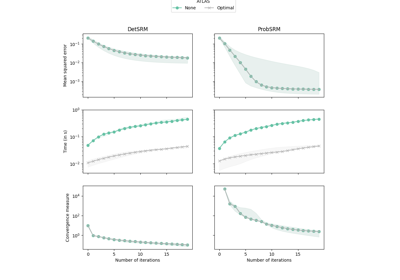
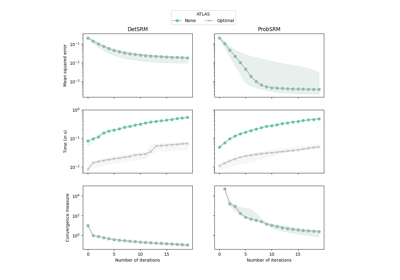
[skip ci] Updates

diff --git a/searchindex.js b/searchindex.js
@@ -1,1 +1,1 @@
-Search.setIndex({docnames:["auto_examples/index","auto_examples/plot_synthetic_toy","auto_examples/sg_execution_times","index"],envversion:{"sphinx.domains.c":2,"sphinx.domains.changeset":1,"sphinx.domains.citation":1,"sphinx.domains.cpp":4,"sphinx.domains.index":1,"sphinx.domains.javascript":2,"sphinx.domains.math":2,"sphinx.domains.python":3,"sphinx.domains.rst":2,"sphinx.domains.std":2,sphinx:56},filenames:["auto_examples/index.rst","auto_examples/plot_synthetic_toy.rst","auto_examples/sg_execution_times.rst","index.rst"],objects:{"fastsrm.fastsrm":{fastsrm:[3,0,1,""]},"fastsrm.identifiable_srm":{IdentifiableFastSRM:[3,1,1,""]},"fastsrm.identifiable_srm.IdentifiableFastSRM":{add_subjects:[3,2,1,""],clean:[3,2,1,""],fit:[3,2,1,""],fit_transform:[3,2,1,""],inverse_transform:[3,2,1,""],transform:[3,2,1,""]},"fastsrm.srm":{detsrm:[3,0,1,""],probsrm:[3,0,1,""]}},objnames:{"0":["py","function","Python function"],"1":["py","class","Python class"],"2":["py","method","Python method"]},objtypes:{"0":"py:function","1":"py:class","2":"py:method"},terms:{"0":[1,2,3],"00":2,"000013":1,"001":3,"05":3,"08":2,"1":[1,3],"10":[1,3],"100":3,"12":3,"12537":3,"129":1,"15":1,"1909":3,"1e":[1,3],"1e0":1,"2":[1,3],"20":[1,3],"2019":3,"25":1,"3":1,"30":1,"4":1,"4009":1,"424":[1,2],"456504":1,"5":1,"685497":1,"75":1,"767339":1,"790836":1,"8":1,"9":1,"case":3,"class":3,"default":3,"do":3,"float":[1,3],"function":3,"import":1,"int":3,"new":3,"return":[1,3],"true":[1,3],A:3,At:3,If:3,The:[0,3],To:3,access:3,accuraci:1,across:3,add:3,add_subject:3,aggreg:3,algo:1,algorithm:3,algos_det:1,algos_group:1,algos_prob:1,all:[0,3],alpha:1,also:3,among:3,amount:3,an:3,ani:[1,3],anymor:3,append:[1,3],appli:3,approx:3,ar:3,arang:1,arrai:[1,3],arxiv:3,assum:3,astyp:1,atla:[1,3],attribut:3,auto:3,auto_exampl:2,auto_examples_jupyt:[0,3],auto_examples_python:[0,3],ax:1,axi:1,b:[1,3],base:1,basi:3,basis_list:3,bbox_to_anchor:1,below:3,bool:3,c:1,call:3,callback:[1,3],can:[0,3],center:1,circleci:1,clean:3,click:1,cm:1,code:[0,1,3],col:1,collect:3,color:1,compon:1,comput:[1,3],contain:3,control:3,converg:[0,2,3],coordin:3,copi:1,corrective_factor:3,covari:3,cpu:3,current:[1,3],current_it:1,current_tim:1,data:3,dataset:1,decomposit:3,def:1,delai:1,demonstr:[0,1,3],describ:3,det:[1,3],determinist:3,detsrm:1,diagon:3,did:1,diff:1,diff_b_a:1,dim:1,dir:3,dirichlet:1,disabl:3,do_exp:1,done:[0,1,3],dot:[1,3],download:[0,1,3],dure:3,each:3,element:3,els:1,enabl:3,encount:1,end:3,enumer:1,env:1,eras:3,error:[1,3],estim:3,exampl:1,execut:2,exist_ok:1,expect:3,f:1,factor:3,fall:3,fals:3,fast:[1,3],fastdet:1,fastprob:1,fastsrm:[0,2],featur:3,figsiz:1,file:[2,3],fill_between:1,fit:3,fit_transform:3,flatten:1,fmri:3,foral:3,free:3,from:[1,3],full:1,function_bas:1,galleri:1,gener:[0,1,3],get_cmap:1,given:3,gnorm:[1,3],gradient:3,h:3,ha:3,have:3,here:1,hold:3,home:1,http:3,i:[1,3],identifiable_srm:3,img:3,implicitli:3,index:1,inform:3,initi:3,input:3,instanc:3,invalid:1,inverse_transform:3,ipynb:1,iter:[1,3],itself:3,j:[1,3],joblib:1,jupyt:[0,1,3],k:1,l:3,label:1,larg:3,larger:3,legend:1,len:1,level:3,lib:1,librari:[0,3],linestyl:1,list:3,load:3,loc:1,log:[1,3],logloc:1,loss:1,low:3,m:1,makedir:1,marker:1,markeveri:1,martin:3,matplotlib:1,mb:2,mean:[1,3],measur:1,median:1,memori:3,method:[1,3],miniconda3:1,minor:1,minut:1,model:3,much:3,multi:3,multipleloc:1,n:[1,3],n_compon:3,n_featur:3,n_iter:[1,3],n_job:3,n_sampl:3,n_session:3,n_subject:3,n_timefram:3,n_view:3,n_voxel:3,name:1,ncol:1,need:3,nois:3,noise_vari:3,none:[1,3],norm:3,note:3,notebook:[0,1,3],noth:3,np:[1,3],number:[1,3],numpi:[1,3],numtick:1,o:1,object:3,one:3,ones:1,onli:3,optim:1,option:3,org:3,orthogon:3,os:1,otherwis:3,out:1,packag:1,parallel:1,paramet:3,path:3,pca:3,pdf:3,per:3,perform:3,pillow:3,pinho:3,plot:1,plot_synthetic_toi:[1,2],plt:1,plticker:1,power:3,prefer:3,preprocess:3,print:[1,3],prob:[1,3],probabilist:3,probsrm:1,prod:1,project:[1,3],provid:[0,3],py:[1,2],pyplot:1,python3:1,python:[0,1,3],quantil:1,rand:1,randn:1,random:[1,3],random_st:[1,3],randomst:[1,3],rang:1,re:1,reconstruct:3,reconstructed_data:3,record:3,reduc:3,refer:3,reg_error:1,respons:3,ress:1,result:[1,3],richard2019:3,richard:3,rng:1,row:1,run:[0,2,3],runtimewarn:1,s:[1,3],s_true:1,same:3,sampl:[0,3],save:3,script:1,second:1,seed:1,self:3,session:3,sessions_index:3,set2:1,set:3,set_minor_loc:1,set_titl:1,set_xlabel:1,set_ylabel:1,set_yscal:1,set_ytick:1,shape:3,share:[1,3],shared_respons:3,sharei:1,sharex:1,should:3,show:1,sigma:[1,3],site:1,small:1,so:3,sourc:[0,1,3],source_covari:3,space:3,specif:3,specifi:3,speed:1,sphinx:[0,1,3],sqrt:1,squar:1,srm:[1,3],start:1,step:3,stop:3,store:3,str:3,sub:1,subject:3,subject_index:3,subjects_index:3,subplot:1,subtract:1,t0:3,t_init:1,temp_dir:3,temporari:3,testenv:1,than:3,thank:3,thi:[1,3],thirion:3,tick_param:1,ticker:1,time:[0,3],timecours:3,titl:1,tol:[1,3],toler:3,total:[1,2],train:3,transform:3,type:3,up:1,upper:1,us:[1,3],use_pca:3,util:1,v:1,valu:[1,3],vari:3,varianc:3,verbos:3,veri:[1,3],vir:1,voxel:3,w:[1,3],w_i:3,warn:3,what:[0,3],when:3,where:3,which:[1,3],without:1,work:[0,3],x:[1,3],x_i:3,y:1,y_minor:1,yaxi:1,yield:3,zip:[0,3]},titles:["Examples Gallery","FastSRM : running time and convergence","Computation times","Examples Gallery"],titleterms:{comput:2,converg:1,detsrm:3,exampl:[0,3],fastsrm:[1,3],galleri:[0,3],identifiablefastsrm:3,probsrm:3,run:1,time:[1,2]}})
+Search.setIndex({docnames:["auto_examples/index","auto_examples/plot_synthetic_toy","auto_examples/sg_execution_times","index"],envversion:{"sphinx.domains.c":2,"sphinx.domains.changeset":1,"sphinx.domains.citation":1,"sphinx.domains.cpp":4,"sphinx.domains.index":1,"sphinx.domains.javascript":2,"sphinx.domains.math":2,"sphinx.domains.python":3,"sphinx.domains.rst":2,"sphinx.domains.std":2,sphinx:56},filenames:["auto_examples/index.rst","auto_examples/plot_synthetic_toy.rst","auto_examples/sg_execution_times.rst","index.rst"],objects:{"fastsrm.fastsrm":{fastsrm:[3,0,1,""]},"fastsrm.identifiable_srm":{IdentifiableFastSRM:[3,1,1,""]},"fastsrm.identifiable_srm.IdentifiableFastSRM":{add_subjects:[3,2,1,""],clean:[3,2,1,""],fit:[3,2,1,""],fit_transform:[3,2,1,""],inverse_transform:[3,2,1,""],transform:[3,2,1,""]},"fastsrm.srm":{detsrm:[3,0,1,""],probsrm:[3,0,1,""]}},objnames:{"0":["py","function","Python function"],"1":["py","class","Python class"],"2":["py","method","Python method"]},objtypes:{"0":"py:function","1":"py:class","2":"py:method"},terms:{"0":[1,2,3],"00":2,"000013":1,"001":3,"05":3,"09":2,"1":[1,3],"10":[1,3],"100":3,"12":3,"12537":3,"129":1,"15":1,"1909":3,"1e":[1,3],"1e0":1,"2":[1,3],"20":[1,3],"2019":3,"25":1,"3":1,"30":1,"325":[1,2],"4009":1,"456504":1,"5":1,"685497":1,"75":1,"767339":1,"790836":1,"8":1,"9":1,"case":3,"class":3,"default":3,"do":3,"float":[1,3],"function":3,"import":1,"int":3,"new":3,"return":[1,3],"true":[1,3],A:3,At:3,If:3,The:[0,3],To:3,access:3,accuraci:1,across:3,add:3,add_subject:3,aggreg:3,algo:1,algorithm:3,algos_det:1,algos_group:1,algos_prob:1,all:[0,3],alpha:1,also:3,among:3,amount:3,an:3,ani:[1,3],anymor:3,append:[1,3],appli:3,approx:3,ar:3,arang:1,arrai:[1,3],arxiv:3,assum:3,astyp:1,atla:[1,3],attribut:3,auto:3,auto_exampl:2,auto_examples_jupyt:[0,3],auto_examples_python:[0,3],ax:1,axi:1,b:[1,3],base:1,basi:3,basis_list:3,bbox_to_anchor:1,below:3,bool:3,c:1,call:3,callback:[1,3],can:[0,3],center:1,circleci:1,clean:3,click:1,cm:1,code:[0,1,3],col:1,collect:3,color:1,compon:1,comput:[1,3],contain:3,control:3,converg:[0,2,3],coordin:3,copi:1,corrective_factor:3,covari:3,cpu:3,current:[1,3],current_it:1,current_tim:1,data:3,dataset:1,decomposit:3,def:1,delai:1,demonstr:[0,1,3],describ:3,det:[1,3],determinist:3,detsrm:1,diagon:3,did:1,diff:1,diff_b_a:1,dim:1,dir:3,dirichlet:1,disabl:3,do_exp:1,done:[0,1,3],dot:[1,3],download:[0,1,3],dure:3,each:3,element:3,els:1,enabl:3,encount:1,end:3,enumer:1,env:1,eras:3,error:[1,3],estim:3,exampl:1,execut:2,exist_ok:1,expect:3,f:1,factor:3,fall:3,fals:3,fast:[1,3],fastdet:1,fastprob:1,fastsrm:[0,2],featur:3,figsiz:1,file:[2,3],fill_between:1,fit:3,fit_transform:3,flatten:1,fmri:3,foral:3,free:3,from:[1,3],full:1,function_bas:1,galleri:1,gener:[0,1,3],get_cmap:1,given:3,gnorm:[1,3],gradient:3,h:3,ha:3,have:3,here:1,hold:3,home:1,http:3,i:[1,3],identifiable_srm:3,img:3,implicitli:3,index:1,inform:3,initi:3,input:3,instanc:3,invalid:1,inverse_transform:3,ipynb:1,iter:[1,3],itself:3,j:[1,3],joblib:1,jupyt:[0,1,3],k:1,l:3,label:1,larg:3,larger:3,legend:1,len:1,level:3,lib:1,librari:[0,3],linestyl:1,list:3,load:3,loc:1,log:[1,3],logloc:1,loss:1,low:3,m:1,makedir:1,marker:1,markeveri:1,martin:3,matplotlib:1,mb:2,mean:[1,3],measur:1,median:1,memori:3,method:[1,3],miniconda3:1,minor:1,minut:1,model:3,much:3,multi:3,multipleloc:1,n:[1,3],n_compon:3,n_featur:3,n_iter:[1,3],n_job:3,n_sampl:3,n_session:3,n_subject:3,n_timefram:3,n_view:3,n_voxel:3,name:1,ncol:1,need:3,nois:3,noise_vari:3,none:[1,3],norm:3,note:3,notebook:[0,1,3],noth:3,np:[1,3],number:[1,3],numpi:[1,3],numtick:1,o:1,object:3,one:3,ones:1,onli:3,optim:1,option:3,org:3,orthogon:3,os:1,otherwis:3,out:1,packag:1,parallel:1,paramet:3,path:3,pca:3,pdf:3,per:3,perform:3,pillow:3,pinho:3,plot:1,plot_synthetic_toi:[1,2],plt:1,plticker:1,power:3,prefer:3,preprocess:3,print:[1,3],prob:[1,3],probabilist:3,probsrm:1,prod:1,project:[1,3],provid:[0,3],py:[1,2],pyplot:1,python3:1,python:[0,1,3],quantil:1,rand:1,randn:1,random:[1,3],random_st:[1,3],randomst:[1,3],rang:1,re:1,reconstruct:3,reconstructed_data:3,record:3,reduc:3,refer:3,reg_error:1,respons:3,ress:1,result:[1,3],richard2019:3,richard:3,rng:1,row:1,run:[0,2,3],runtimewarn:1,s:[1,3],s_true:1,same:3,sampl:[0,3],save:3,script:1,second:1,seed:1,self:3,session:3,sessions_index:3,set2:1,set:3,set_minor_loc:1,set_titl:1,set_xlabel:1,set_ylabel:1,set_yscal:1,set_ytick:1,shape:3,share:[1,3],shared_respons:3,sharei:1,sharex:1,should:3,show:1,sigma:[1,3],site:1,small:1,so:3,sourc:[0,1,3],source_covari:3,space:3,specif:3,specifi:3,speed:1,sphinx:[0,1,3],sqrt:1,squar:1,srm:[1,3],start:1,step:3,stop:3,store:3,str:3,sub:1,subject:3,subject_index:3,subjects_index:3,subplot:1,subtract:1,t0:3,t_init:1,temp_dir:3,temporari:3,testenv:1,than:3,thank:3,thi:[1,3],thirion:3,tick_param:1,ticker:1,time:[0,3],timecours:3,titl:1,tol:[1,3],toler:3,total:[1,2],train:3,transform:3,type:3,up:1,upper:1,us:[1,3],use_pca:3,util:1,v:1,valu:[1,3],vari:3,varianc:3,verbos:3,veri:[1,3],vir:1,voxel:3,w:[1,3],w_i:3,warn:3,what:[0,3],when:3,where:3,which:[1,3],without:1,work:[0,3],x:[1,3],x_i:3,y:1,y_minor:1,yaxi:1,yield:3,zip:[0,3]},titles:["Examples Gallery","FastSRM : running time and convergence","Computation times","Examples Gallery"],titleterms:{comput:2,converg:1,detsrm:3,exampl:[0,3],fastsrm:[1,3],galleri:[0,3],identifiablefastsrm:3,probsrm:3,run:1,time:[1,2]}})

diff --git a/auto_examples/plot_synthetic_toy.html b/auto_examples/plot_synthetic_toy.html
@@ -269,12 +269,12 @@ Done
 <span class="n">axes</span><span class="p">[</span><span class="mi">2</span><span class="p">,</span> <span class="mi">0</span><span class="p">]</span><span class="o">.</span><span class="n">set_xlabel</span><span class="p">(</span><span class="s2">&quot;Number of iterations&quot;</span><span class="p">)</span>
 <span class="n">axes</span><span class="p">[</span><span class="mi">2</span><span class="p">,</span> <span class="mi">1</span><span class="p">]</span><span class="o">.</span><span class="n">set_xlabel</span><span class="p">(</span><span class="s2">&quot;Number of iterations&quot;</span><span class="p">)</span>
 <span class="n">plt</span><span class="o">.</span><span class="n">tick_params</span><span class="p">(</span><span class="n">axis</span><span class="o">=</span><span class="s2">&quot;y&quot;</span><span class="p">,</span> <span class="n">which</span><span class="o">=</span><span class="s2">&quot;minor&quot;</span><span class="p">)</span>
-<span class="n">plt</span><span class="o">.</span><span class="n">legend</span><span class="p">(</span><span class="n">loc</span><span class="o">=</span><span class="s2">&quot;upper center&quot;</span><span class="p">,</span> <span class="n">bbox_to_anchor</span><span class="o">=</span><span class="p">(</span><span class="o">-</span><span class="mf">0.1</span><span class="p">,</span> <span class="mi">4</span><span class="p">),</span> <span class="n">ncol</span><span class="o">=</span><span class="mi">5</span><span class="p">,</span> <span class="n">title</span><span class="o">=</span><span class="s2">&quot;ATLAS&quot;</span><span class="p">)</span>
+<span class="n">plt</span><span class="o">.</span><span class="n">legend</span><span class="p">(</span><span class="n">loc</span><span class="o">=</span><span class="s2">&quot;upper center&quot;</span><span class="p">,</span> <span class="n">bbox_to_anchor</span><span class="o">=</span><span class="p">(</span><span class="o">-</span><span class="mf">0.1</span><span class="p">,</span> <span class="mf">3.8</span><span class="p">),</span> <span class="n">ncol</span><span class="o">=</span><span class="mi">5</span><span class="p">,</span> <span class="n">title</span><span class="o">=</span><span class="s2">&quot;ATLAS&quot;</span><span class="p">)</span>
 <span class="n">plt</span><span class="o">.</span><span class="n">show</span><span class="p">()</span>
 <span class="nb">print</span><span class="p">(</span><span class="s2">&quot;Done&quot;</span><span class="p">)</span>
 </pre></div>
 </div>
-<p class="sphx-glr-timing"><strong>Total running time of the script:</strong> ( 0 minutes  8.424 seconds)</p>
+<p class="sphx-glr-timing"><strong>Total running time of the script:</strong> ( 0 minutes  9.325 seconds)</p>
 <div class="sphx-glr-footer class sphx-glr-footer-example docutils container" id="sphx-glr-download-auto-examples-plot-synthetic-toy-py">
 <div class="sphx-glr-download sphx-glr-download-python docutils container">
 <p><a class="reference download internal" download="" href="../_downloads/eefa709bfa15f19e4cbfadab95d67431/plot_synthetic_toy.py"><code class="xref download docutils literal notranslate"><span class="pre">Download</span> <span class="pre">Python</span> <span class="pre">source</span> <span class="pre">code:</span> <span class="pre">plot_synthetic_toy.py</span></code></a></p>

diff --git a/auto_examples/sg_execution_times.html b/auto_examples/sg_execution_times.html
@@ -69,7 +69,7 @@
              
   <section id="computation-times">
 <span id="sphx-glr-auto-examples-sg-execution-times"></span><h1>Computation times<a class="headerlink" href="#computation-times" title="Permalink to this headline"></a></h1>
-<p><strong>00:08.424</strong> total execution time for <strong>auto_examples</strong> files:</p>
+<p><strong>00:09.325</strong> total execution time for <strong>auto_examples</strong> files:</p>
 <table class="docutils align-default">
 <colgroup>
 <col style="width: 81%" />
@@ -78,7 +78,7 @@
 </colgroup>
 <tbody>
 <tr class="row-odd"><td><p><a class="reference internal" href="plot_synthetic_toy.html#sphx-glr-auto-examples-plot-synthetic-toy-py"><span class="std std-ref">FastSRM : running time and convergence</span></a> (<code class="docutils literal notranslate"><span class="pre">plot_synthetic_toy.py</span></code>)</p></td>
-<td><p>00:08.424</p></td>
+<td><p>00:09.325</p></td>
 <td><p>0.0 MB</p></td>
 </tr>
 </tbody>

diff --git a/_downloads/eefa709bfa15f19e4cbfadab95d67431/plot_synthetic_toy.py b/_downloads/eefa709bfa15f19e4cbfadab95d67431/plot_synthetic_toy.py
@@ -176,6 +176,6 @@ axes[0, 0].set_ylabel("Mean squared error")
 axes[2, 0].set_xlabel("Number of iterations")
 axes[2, 1].set_xlabel("Number of iterations")
 plt.tick_params(axis="y", which="minor")
-plt.legend(loc="upper center", bbox_to_anchor=(-0.1, 4), ncol=5, title="ATLAS")
+plt.legend(loc="upper center", bbox_to_anchor=(-0.1, 3.8), ncol=5, title="ATLAS")
 plt.show()
 print("Done")
